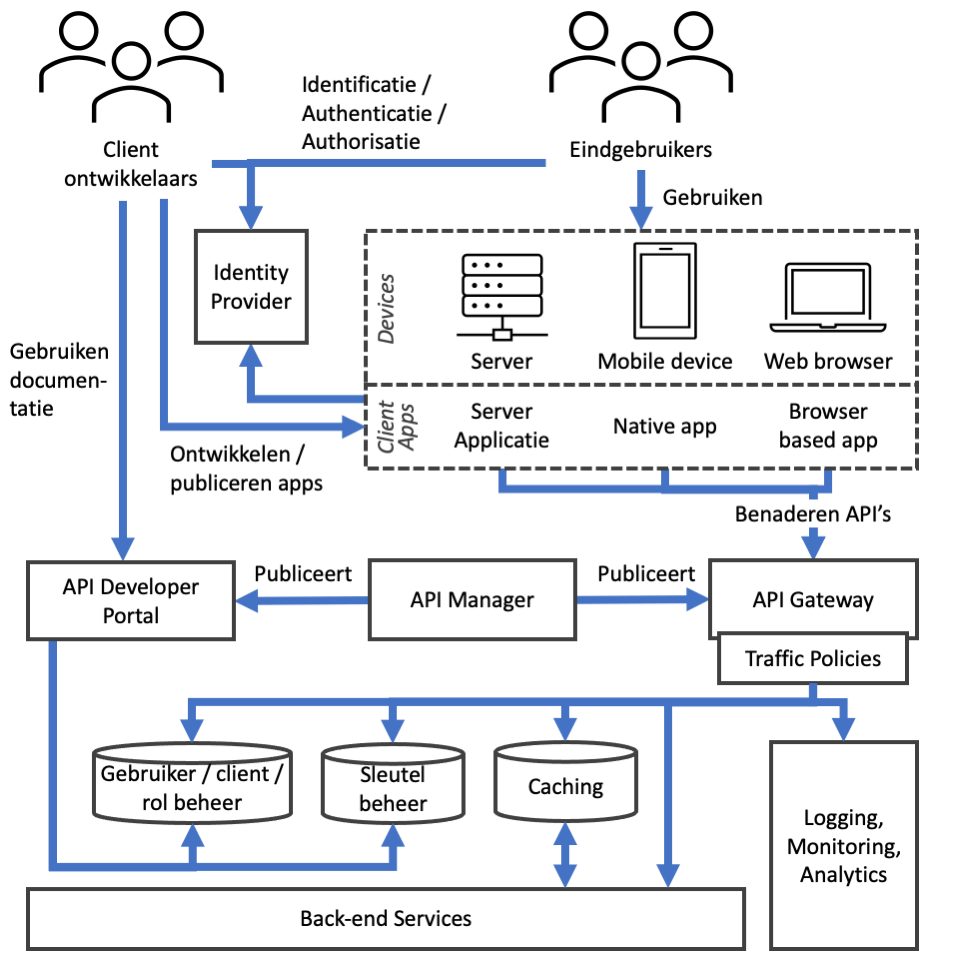
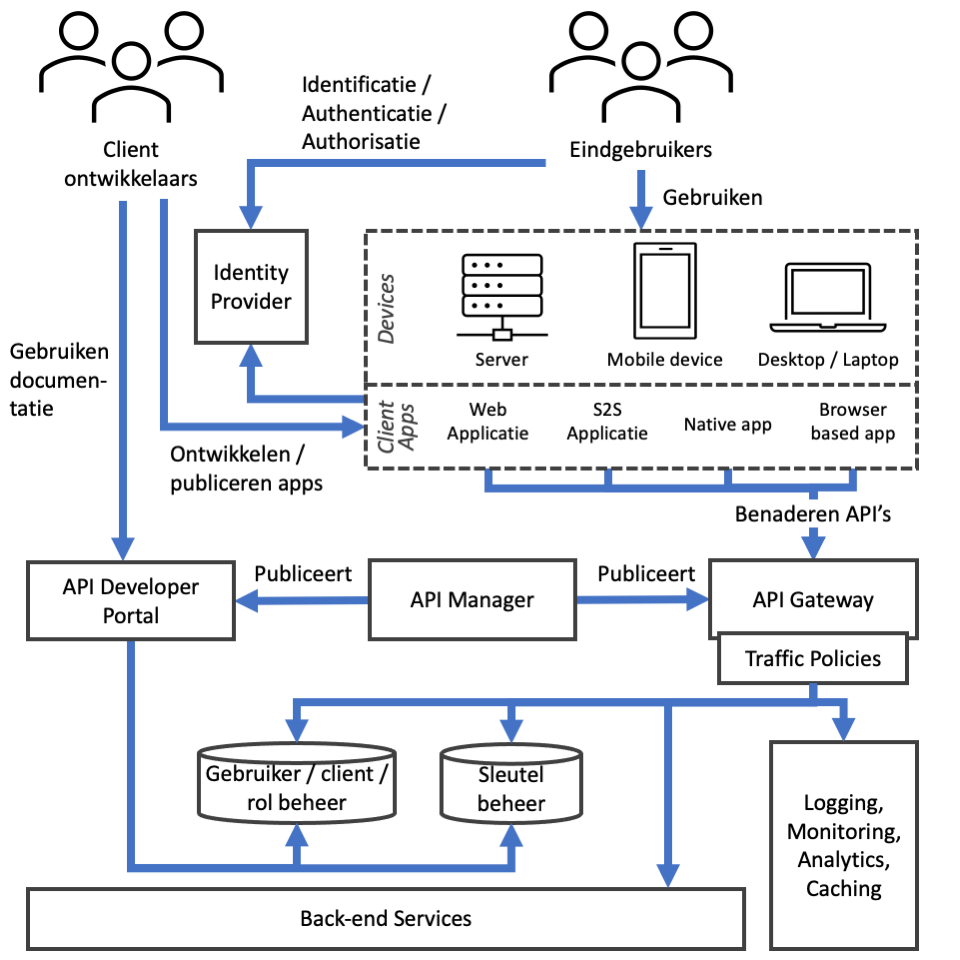
Eerste review-waardige versie van de API security architectuur beschrijving

diff --git a/Werkgroep API architectuur/uitwerkingen/apisec.md b/Werkgroep API architectuur/uitwerkingen/apisec.md
@@ -14,14 +14,14 @@ Integriteit gaat over het waarborgen van de integriteit van gegevens en systeemf
 
 In de context van API's gaat integriteit over het versleutelen en ondertekenen van berichten en gegevens, het valideren van API verzoeken en de vastlegging van de gegevensuitwisseling tussen API aanbieders en consumenten.
 
-Aan integriteit gerelateerde API capabilities zijn *Logging / Audit Trail*, *Policy Enforcement*, *Identificatie / Authenticatie / Autorisatie* en *Sleutel Management*. De onderstaande sectie *Componenten* beschrijft deze in meer detail en geeft aan waar deze worden toegepast in een API architectuur.
+Aan integriteit gerelateerde API capabilities zijn *Logging / Audit Trail*, *Policy Enforcement*, *Identificatie / Authenticatie / Autorisatie* en *Sleutelbeheer*. De onderstaande sectie *Componenten* beschrijft deze in meer detail en geeft aan waar deze worden toegepast in een API architectuur.
 
 ### Vertrouwelijkheid
 Vertrouwelijkheid gaat over het geheimhouden van gegevens en gegevensbronnen. Dit wordt gegarandeerd door scheiding van systeemfuncties, door controle op communicatiegedrag en gegevensuitwisseling, door validatie op toegang tot gegevens en systeemfuncties en door versleuteling van gegevens. Binnen de NORA is vertrouwelijkheid opgenomen als afgeleid principe [AP43](https://www.noraonline.nl/wiki/Vertrouwelijkheid_%28principe%29).
 
 In de context van API's gaat vertrouwelijkheid over het ervoor te zorgen dat tussen API aanbieder en consument uitgewisselde gegevens niet door onbevoegden kunnen worden ingezien en misbruikt.
 
-Aan vertrouwelijkheid gerelateerde API capabilities zijn *Caching*, *Analytics*, *Logging / Audit Trail*, *Identificatie / Authenticatie / Autorisatie*, *Sleutel management* en *Gebruiker / Rol beheer*. De onderstaande sectie *Componenten* beschrijft deze in meer detail en geeft aan waar deze worden toegepast in een API architectuur.
+Aan vertrouwelijkheid gerelateerde API capabilities zijn *Caching*, *Analytics*, *Logging / Audit Trail*, *Identificatie / Authenticatie / Autorisatie*, *Sleutelbeheer* en *Gebruiker / Rol beheer*. De onderstaande sectie *Componenten* beschrijft deze in meer detail en geeft aan waar deze worden toegepast in een API architectuur.
 
 ### Componenten
 Onderstaande afbeelding geeft een overzicht van standaard componenten in een API architectuur. Deze sectie beschrijft de aan API beveiliging gerelateerde componenten in dit diagram.
@@ -29,23 +29,25 @@ Onderstaande afbeelding geeft een overzicht van standaard componenten in een API
 ![API Security Architectuur diagram](media/api-security-architecture.png)
 
 #### Actors en Clients
+Onderstaand overzicht beschrijft de actoren en API Clients welke een rol spelen bij API beveiliging uit bovenstaand diagram. 
+
 - **Eindgebruikers:** Eindgebruikers welke door middel van devices en client apps gebruik maken van API's.
 - **Client ontwikkelaars:** Ontwikkelaars van client API gebruikende client apps voor verschillende devices.
-- **Server Applicatie:** een API client die in een server draait. Dit kan een Web Applicatie zijn welke in een web server draait en via een web browser benaderd wordt, of een applicatie welke de API's via een System-to-System koppeling benadert.
+- **Web Applicatie:** een API client die op een server draait, welke door eindgebruikers wordt gebruikt middels een web interface.
+- **System-to-System (S2S) Applicatie:** een API client die op een server draait, welke namens zichzelf (in plaats van namens een eindgebruiker) API's benadert middels een system-to-system koppeling, in plaats van namens een eindgebruiker.
 - **Native App:** een API client die als native applicatie op het device van de eindgebruiker draait en zelfstandig API's benadert.
 - **Browser-based App:** een API client die volledig in de browser draait en zelfstandig API's benadert, bijvoorbeeld op basis van JavaScript.
 
 #### Componenten
-In onderstaand overzicht worden de componenten welke een rol spelen bij API beveiliging uit bovenstaand diagram beschreven.
+Onderstaand overzicht beschrijft de componenten welke een rol spelen bij API beveiliging uit bovenstaand diagram.
 
 - **Identity Provider:** Biedt de mogelijkheid aan eindgebruikers en Client applicaties om zichzelf te identificeren en Authentiseert deze. Geeft een authenticatie token af aan de Client applicatie waarmee deze API endpoints kan benaderen.
-- **API Gateway:** [...] Kan een verbinding met de Identity Provider hebben voor het geval door de Identity Provider afgegeven tokens onvoldoende informatie bevatten om autorisaties toe te passen.
-- **Traffic Policies:** [...] Over het algemeen bieden API Gateways de mogelijkheden om traffic policies direct in te bouwen.
-- **Gebruiker / client / rol beheer:** [...] Dit is *niet* de identity store welke credentials van eindgebruikers bevat; dat gedeelte is de verantwoordelijkheid van de Identity Provider.
+- **API Gateway:** De toegangspoort tot het achterliggende applicatie landschap. Alle API interactie verloopt via de API Gateway, waardoor de API Gateway een centrale rol heeft in de API beveiliging. Over het algemeen bevat de API Gateway een aantal traffic policies (zie volgend punt) welke bij elk API verzoek worden gevalideerd en voert de API Gateway initiële autorisatie van API verzoeken uit. Deze autorisatie omvat minimaal een controle of de ontvangen verzoeken van correcte Access Tokens zijn voorzien en kan eventueel role-based autorisaties toepassen. De API Gateway kan een verbinding met de Identity Provider hebben voor het geval door de Identity Provider afgegeven tokens onvoldoende informatie bevatten om autorisaties toe te passen.
+- **Traffic Policies:** Een verzameling policies welke worden toegepast op al het API verkeer, of een specifiek deel daarvan. Voorbeelden zijn *Rate Limiting / Throttling*, *SLA Management* en *Input validatie*. Over het algemeen bieden API Gateways de mogelijkheden om traffic policies direct in te bouwen.
+- **Gebruiker / client / rol beheer:** Het beheren van gebruikers van de API tooling, zoals beheerders, API developers en client developers, geregistreerde Client applicaties en een mapping van eindgebruikers identiteiten en rollen naar specifieke autorisaties. Dit is *niet* de identity store welke credentials van eindgebruikers bevat; dat gedeelte is de verantwoordelijkheid van de Identity Provider.
 - **Sleutel beheer:** Beheert het sleutelmateriaal dat wordt gebruikt voor versleuteling en ondertekening van berichten welke worden uitgewisseld tussen API Gateway, Identity Provider en Client applicaties.
-- **Caching:** Een API stack leent zich goed om resource data te cachen. Met het oog op API beveiliging is het belangrijk cache invalidaties toe te passen zodat verouderde cache data niet kan worden teruggehaald en is het belangrijk dat er geen sessie gerelateerde data in de cache terechtkomt.
-- **Logging, Monitoring, Analytics:** 
-- **Back-end Services:** 
+- **Logging, Monitoring, Analytics, Caching:** Cross-cutting functionaliteiten welke op verschillende en/of meerdere plekken in het landschap geïmplementeerd kunnen worden. Voor al deze functionaliteiten is het van belang dat deze in lijn met AVG richtlijnen worden opgezet. Bij caching is het daarnaast belangrijk cache invalidaties te implementeren om te voorkomen dat verouderde cache data kan worden teruggehaald, zeker als daar privacy gevoelige informatie in kan staan.
+- **Back-end Services:** Applicaties die de daadwerkelijke resources implementeren. 
 
 ### Principes
 De volgende basisprincipes voor API beveiliging moeten worden toegepast bij het aanbieden van API dienstverlening:
@@ -82,9 +84,10 @@ Een belangrijk component bij autorisaties in de context van API's is de API Gate
 
 Voor de implementatie van *domein-specifieke autorisaties* in de back-ends kunnen tevens microgateways of een service mesh oplossing worden gekozen. Bijkomend voordeel van het gebruik van een service mesh is dat deze standaard werken op basis van zero-trust networking.
 
+<!--
 #### Multi-level Authentication
 
-<!-- TBD: input van Eelco. -->
+TBD: input van Eelco. -->
 
 ### Referenties
 - [OWASP Top Ten Cheat Sheet](https://www.owasp.org/index.php/OWASP_Top_Ten_Cheat_Sheet)
